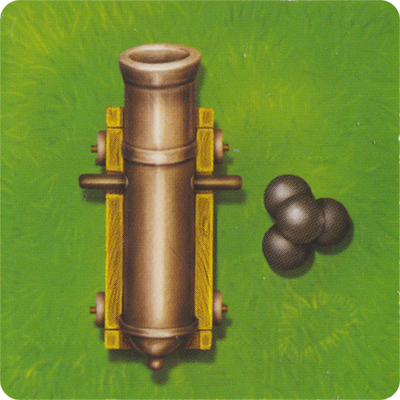
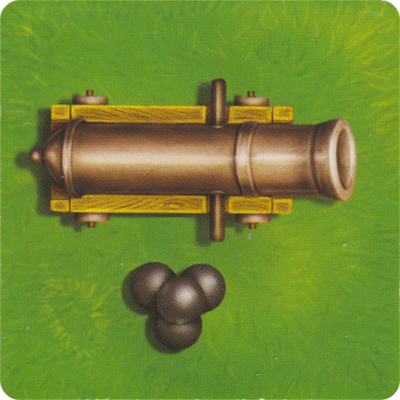
Убрал смену команд каждый ход Исправил пушку

diff --git a/BoardAppearance.xaml b/BoardAppearance.xaml
@@ -118,6 +118,14 @@
             <Style.Triggers>
                 <MultiDataTrigger>
                     <MultiDataTrigger.Conditions>
+                    </MultiDataTrigger.Conditions>
+                    <MultiDataTrigger.Setters>
+                        <Setter Property="Width" Value="0.3" />
+                        <Setter Property="Height" Value="0.3" />
+                    </MultiDataTrigger.Setters>
+                </MultiDataTrigger>
+                <MultiDataTrigger>
+                    <MultiDataTrigger.Conditions>
                         <Condition Binding="{Binding Team}" Value="{x:Static local:Player.red}"/>
                     </MultiDataTrigger.Conditions>
                     <MultiDataTrigger.Setters>
@@ -199,9 +207,7 @@
                     <ItemsControl.ItemTemplate>
                         <DataTemplate>
                             <Grid Width="1" Height="1">
-                                <Ellipse Width="0.3"
-                                   Height="0.3"
-                                   Style="{StaticResource PirateStyle}" />
+                                <Ellipse Style="{StaticResource PirateStyle}" />
                             </Grid>
                         </DataTemplate>
                     </ItemsControl.ItemTemplate>

diff --git a/PlayerPanel.xaml.cs b/PlayerPanel.xaml.cs
@@ -35,6 +35,9 @@ namespace Jackal
         }
 
         public void NextTurn()
+        { }
+
+        public void NextTurn(int a)
         {
             switch (Turn)
             {
